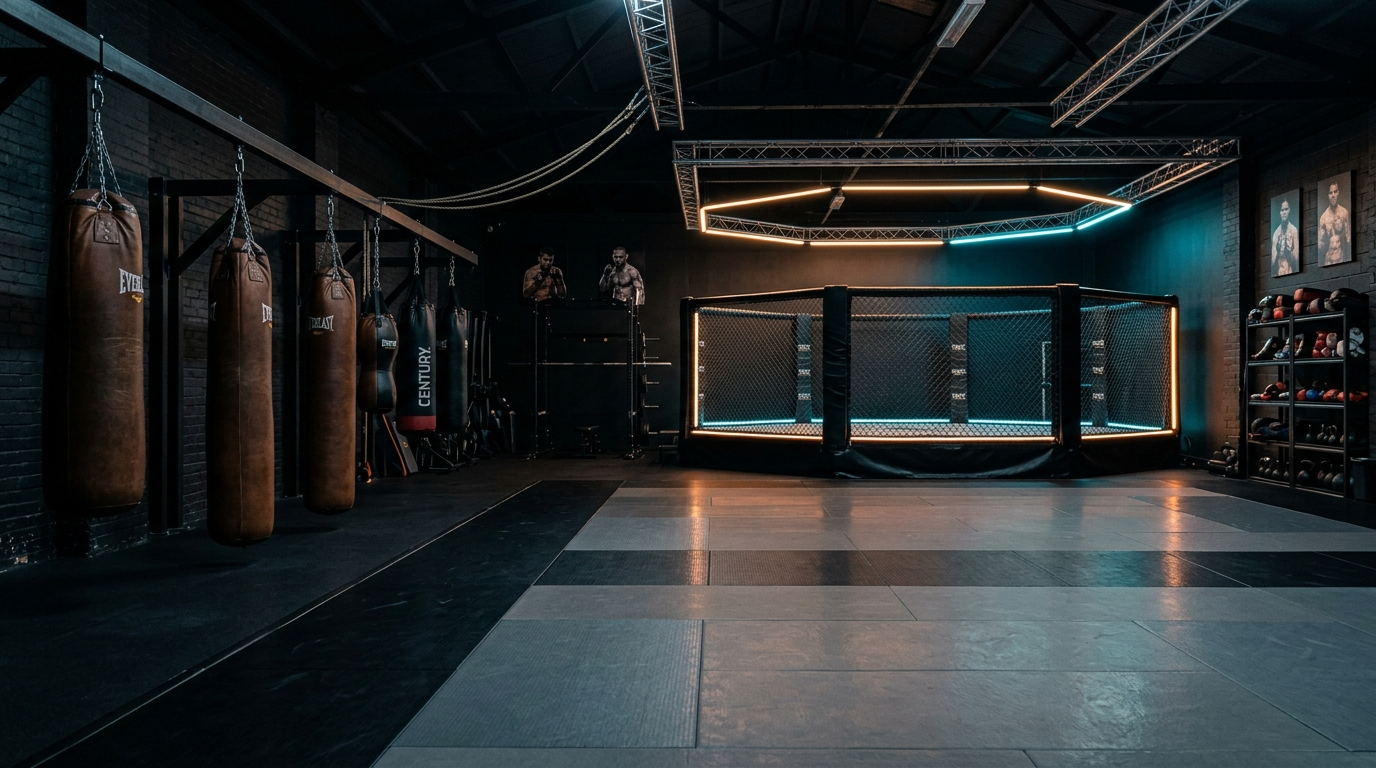
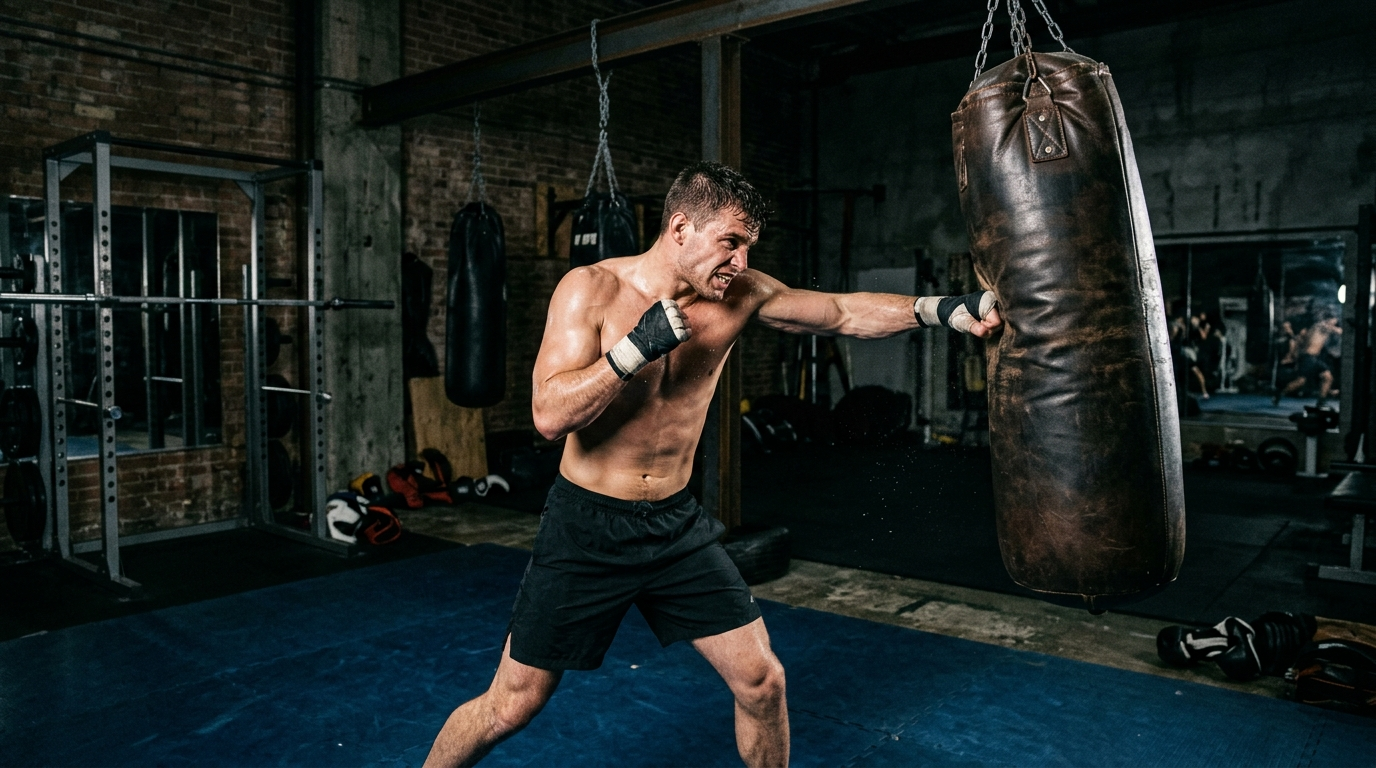
feat(hero): update hero section with realistic combat photography and punchy headline

diff --git a/css/style.css b/css/style.css
@@ -330,17 +330,17 @@ button {
   width: 100%;
   height: 100%;
   object-fit: cover;
-  object-position: center 35%;
-  filter: brightness(0.62) contrast(1.15) grayscale(15%);
+  object-position: right 25%;
+  filter: contrast(1.06) brightness(0.86);
 }
 
-/* Pure neutral dark overlay (zero blue) */
+/* Directional contrast: dark gradient behind bottom-left text, translucent over the boxer and heavy bag */
 .hero-overlay {
   position: absolute;
   inset: 0;
   background: 
-    linear-gradient(90deg, rgba(0, 0, 0, 0.95) 0%, rgba(0, 0, 0, 0.8) 45%, rgba(0, 0, 0, 0.35) 100%),
-    linear-gradient(0deg, #000000 0%, rgba(0, 0, 0, 0.65) 45%, rgba(0, 0, 0, 0.25) 100%);
+    linear-gradient(to right, rgba(0, 0, 0, 0.94) 0%, rgba(0, 0, 0, 0.76) 38%, rgba(0, 0, 0, 0.22) 72%, rgba(0, 0, 0, 0.35) 100%),
+    linear-gradient(to top, rgba(0, 0, 0, 0.95) 0%, rgba(0, 0, 0, 0.55) 30%, transparent 65%);
 }
 
 /* Bottom-Left Container */
@@ -354,27 +354,54 @@ button {
 }
 
 .hero-content {
-  max-width: 720px;
+  max-width: 680px;
   text-align: left;
+}
+
+.hero-kicker-wrap {
+  display: inline-flex;
+  align-items: center;
+  gap: 12px;
+  margin-bottom: 16px;
+}
+
+.hero-kicker-line {
+  width: 28px;
+  height: 2px;
+  background-color: #ffffff;
+  display: inline-block;
+}
+
+.hero-kicker {
+  font-size: 0.78rem;
+  font-weight: 700;
+  letter-spacing: 0.12em;
+  text-transform: uppercase;
+  color: #a3a3a3;
 }
 
 .hero-heading {
   font-family: var(--font-display);
-  font-size: clamp(2.5rem, 5vw, 4.25rem);
+  font-size: clamp(2.6rem, 5.2vw, 4.4rem);
   font-weight: 700;
-  line-height: 1.05;
+  line-height: 1.04;
   letter-spacing: 0.02em;
   text-transform: uppercase;
   color: var(--color-text-primary);
   margin-bottom: 20px;
 }
 
+.hero-heading-sub {
+  color: #e5e5e5;
+  display: block;
+}
+
 .hero-subheading {
   font-size: clamp(0.95rem, 1.2vw, 1.1rem);
-  line-height: 1.6;
+  line-height: 1.65;
   color: var(--color-text-secondary);
-  max-width: 620px;
-  margin-bottom: 32px;
+  max-width: 600px;
+  margin-bottom: 30px;
   font-weight: 400;
 }
 
@@ -384,16 +411,17 @@ button {
   align-items: center;
   gap: 16px;
   flex-wrap: wrap;
+  margin-bottom: 22px;
 }
 
 .btn-primary {
   display: inline-flex;
   align-items: center;
   justify-content: center;
-  padding: 14px 28px;
+  padding: 13px 28px;
   font-size: 0.95rem;
   font-weight: 600;
-  letter-spacing: 0.02em;
+  letter-spacing: 0.03em;
   border-radius: var(--radius-sm);
   background-color: var(--btn-primary-bg);
   color: var(--btn-primary-text);
@@ -409,10 +437,10 @@ button {
   display: inline-flex;
   align-items: center;
   justify-content: center;
-  padding: 14px 28px;
+  padding: 13px 28px;
   font-size: 0.95rem;
   font-weight: 600;
-  letter-spacing: 0.02em;
+  letter-spacing: 0.03em;
   border-radius: var(--radius-sm);
   background-color: var(--btn-secondary-bg);
   color: var(--btn-secondary-text);
@@ -425,6 +453,14 @@ button {
 .btn-secondary:hover {
   background-color: var(--btn-secondary-hover-bg);
   border-color: var(--btn-secondary-hover-border);
+}
+
+.hero-branches-note {
+  font-size: 0.75rem;
+  font-weight: 600;
+  letter-spacing: 0.08em;
+  text-transform: uppercase;
+  color: #737373;
 }
 
 /* ==========================================================================

diff --git a/index.html b/index.html
@@ -84,14 +84,19 @@
       <!-- Bottom-Left Aligned Hero Content -->
       <div class="hero-container">
         <div class="hero-content">
-          <h1 class="hero-heading">Mixed Martial Arts &amp; Combat Training</h1>
+          <div class="hero-kicker-wrap">
+            <span class="hero-kicker-line"></span>
+            <span class="hero-kicker">BBC Martial Arts Academy &bull; Twin Cities</span>
+          </div>
+          <h1 class="hero-heading">Fight Like a Champion.<br><span class="hero-heading-sub">Train With Purpose.</span></h1>
           <p class="hero-subheading">
-            Professional training in Karate, Boxing, Kickboxing, MMA, Katana and traditional weapons, and functional combat conditioning. Built for real discipline, athletic performance, and self-defense.
+            Professional training in Boxing, Kickboxing, Karate, Mixed Martial Arts, Katana &amp; weapons defense, and combat conditioning. Built for real discipline, athletic strength, and self-defense.
           </p>
           <div class="hero-buttons">
             <a href="#contact" class="btn-primary">Book a Free Class</a>
             <a href="#services" class="btn-secondary">Our Disciplines</a>
           </div>
+          <p class="hero-branches-note">Two Training Facilities &bull; Ghauri Town Phase 4A &bull; Airport Housing Society</p>
         </div>
       </div>
     </section>
